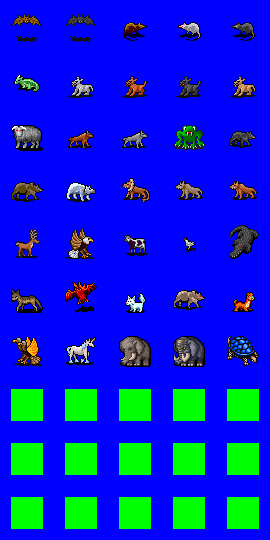
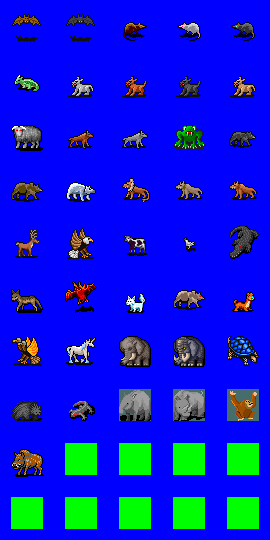
Added wild boar

diff --git a/monsters/animals.py b/monsters/animals.py
@@ -597,8 +597,8 @@ class Ankheg( base.Monster ):
 
 class Lion( base.Monster ):
     name = "Lion"
-    statline = { stats.STRENGTH: 15, stats.TOUGHNESS: 10, stats.REFLEXES: 16, \
-        stats.INTELLIGENCE: 3, stats.PIETY: 10, stats.CHARISMA: 9 }
+    statline = { stats.STRENGTH: 21, stats.TOUGHNESS: 15, stats.REFLEXES: 17, \
+        stats.INTELLIGENCE: 3, stats.PIETY: 12, stats.CHARISMA: 9 }
     SPRITENAME = "monster_animals.png"
     FRAME = 17
     TEMPLATES = ()
@@ -614,6 +614,28 @@ class Lion( base.Monster ):
 
     def init_monster( self ):
         self.levels.append( base.Beast( 6, self ) )
+
+class WildBoar( base.Monster ):
+    name = "Wild Boar"
+    statline = { stats.STRENGTH: 27, stats.TOUGHNESS: 17, stats.REFLEXES: 10, \
+        stats.INTELLIGENCE: 2, stats.PIETY: 13, stats.CHARISMA: 8 }
+    SPRITENAME = "monster_animals.png"
+    FRAME = 40
+    TEMPLATES = ()
+    MOVE_POINTS = 10
+    VOICE = None
+    GP_VALUE = 0
+    HABITAT = ( context.HAB_FOREST, context.SET_EVERY,
+     context.DES_EARTH,
+     context.MTY_BEAST, context.MTY_CREATURE,
+     context.GEN_NATURE )
+    ENC_LEVEL = 6
+
+    ATTACK = items.Attack( (1,8,0), element = stats.RESIST_PIERCING )
+
+    def init_monster( self ):
+        self.levels.append( base.Beast( 6, self ) )
+
 
 #  *******************************
 #  ***   ENCOUNTER  LEVEL  7   ***
@@ -711,7 +733,7 @@ class Crocodile( base.Monster ):
 
 class GreatStag( base.Monster ):
     name = "Great Stag"
-    statline = { stats.STRENGTH: 15, stats.TOUGHNESS: 14, stats.REFLEXES: 17, \
+    statline = { stats.STRENGTH: 19, stats.TOUGHNESS: 14, stats.REFLEXES: 21, \
         stats.INTELLIGENCE: 3, stats.PIETY: 19, stats.CHARISMA: 16 }
     SPRITENAME = "monster_animals.png"
     FRAME = 20
@@ -731,7 +753,7 @@ class GreatStag( base.Monster ):
 
 class PolarBear( base.Monster ):
     name = "Polar Bear"
-    statline = { stats.STRENGTH: 20, stats.TOUGHNESS: 18, stats.REFLEXES: 12, \
+    statline = { stats.STRENGTH: 27, stats.TOUGHNESS: 19, stats.REFLEXES: 13, \
         stats.INTELLIGENCE: 1, stats.PIETY: 10, stats.CHARISMA: 6,
         stats.RESIST_FIRE: -50, stats.RESIST_COLD: 50 }
     SPRITENAME = "monster_animals.png"
@@ -759,7 +781,7 @@ class PolarBear( base.Monster ):
 
 class Elephant( base.Monster ):
     name = "Elephant"
-    statline = { stats.STRENGTH: 25, stats.TOUGHNESS: 25, stats.REFLEXES: 12, \
+    statline = { stats.STRENGTH: 30, stats.TOUGHNESS: 25, stats.REFLEXES: 12, \
         stats.INTELLIGENCE: 1, stats.PIETY: 12, stats.CHARISMA: 6 }
     SPRITENAME = "monster_animals.png"
     FRAME = 32
@@ -791,8 +813,8 @@ class Elephant( base.Monster ):
 
 class CaveBear( base.Monster ):
     name = "Cave Bear"
-    statline = { stats.STRENGTH: 20, stats.TOUGHNESS: 20, stats.REFLEXES: 12, \
-        stats.INTELLIGENCE: 1, stats.PIETY: 12, stats.CHARISMA: 6, \
+    statline = { stats.STRENGTH: 31, stats.TOUGHNESS: 20, stats.REFLEXES: 12, \
+        stats.INTELLIGENCE: 1, stats.PIETY: 12, stats.CHARISMA: 10, \
         stats.RESIST_SLASHING: 25, stats.RESIST_PIERCING: 25, stats.RESIST_CRUSHING: 25 }
     SPRITENAME = "monster_animals.png"
     FRAME = 28

diff --git a/dialogue/cutscene.py b/dialogue/cutscene.py
@@ -1,0 +1,43 @@
+""" Chatter is in-party dialogue, no NPCs necessarily involved.
+
+    When a chatter stream is activated, the list of possible responses
+    is searched until a legal response is found. If no response is found,
+    this chatter stream has failed, which may or may not be a problem for
+    the parent.
+"""
+import random
+
+class PCSeek( object ):
+    def __init__( self, species=None, job=None, can_be_dead=False ):
+        self.species = species
+        self.job = job
+        self.gender = gender
+    def find( self, explo, cast=dict() ):
+        # Locate a PC that meets this seeker's requirements and has not yet
+        # been used.
+        candidates = list()
+        for pc in explo.camp.party:
+            if pc not in cast.items() and ( pc.is_alright() or self.can_be_dead ):
+                seems_legit = True
+                if self.species:
+                    seems_legit = isinstance( pc.species, self.species )
+                if self.job:
+                    seems_legit = isinstance( pc.mr_level, self.job )
+                if seems_legit:
+                    candidates.append( pc )
+        return random.choice( candidates )
+
+class Say( object ):
+    def __init__( self, msg, speaker, children=None, end_ok=True ):
+        self.msg = msg
+        self.speaker = speaker
+        self.children = children
+        self.end_ok = end_ok
+
+    def speak( self, actors ):
+        # We are going to Say.eet now.
+        # -Attempt to find a speaker
+        # -If not a good end, attempt to find a child.
+
+
+
